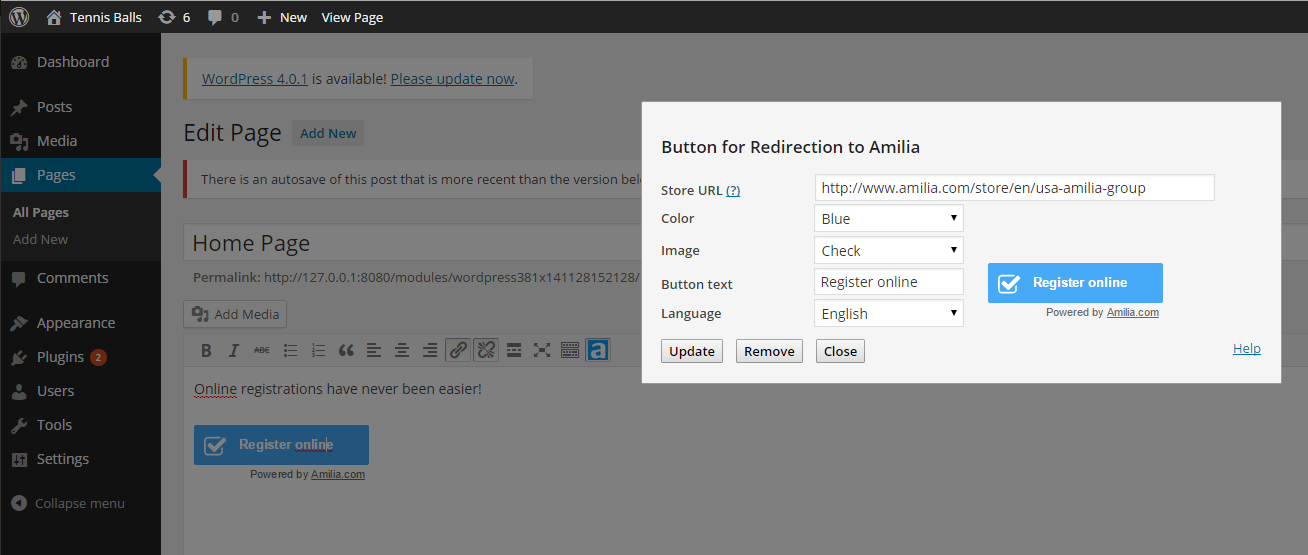
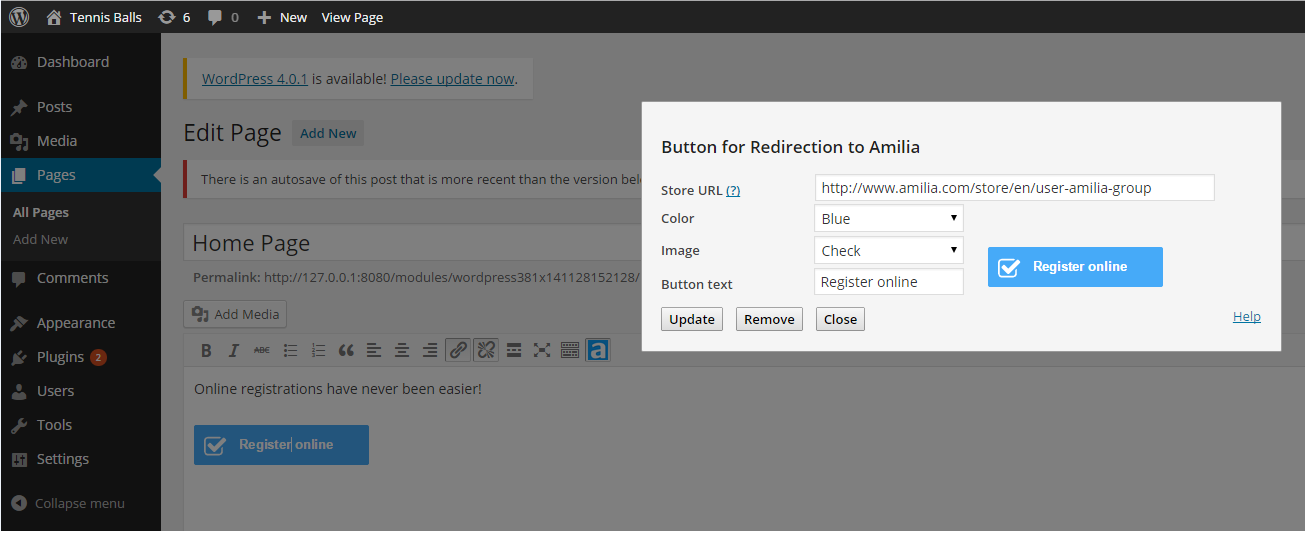
Removed powered-by. Not allowed by WP plugin rules. Removed hard-coded directory load. Detect color, image and text when editing a button.

diff --git a/amilia-button.js b/amilia-button.js
@@ -3,7 +3,8 @@
   var PLUGIN_NAME = "amilia_button",
       AMILIA_URL = "http://www.amilia.com",
       IMAGE_BASE_URL = "http://app.amilia.com/buttons",
-      COLORS = {g: '#40d892', dg: '#28b172', b: '#46aaf8', db: '#158ae5', o: '#fba16b', r: '#fb5b5b', y: '#fce162', steel: '#8294ab'};
+      COLORS = {g: '#40d892', dg: '#28b172', b: '#46aaf8', db: '#158ae5', o: '#fba16b', r: '#fb5b5b', y: '#fce162', steel: '#8294ab'},
+      IMAGES = ["check", "edit", "lock"];
 
   tinyMCE.addI18n("en.amilia_button", {
     "modal-title": "Button for Redirection to Amilia",
@@ -14,10 +15,8 @@
     "close": "Close",
     "text": "Button text",
     "text-value": "Register online",
-    "powered-text": "Powered by",
     "image": "Image",
     "color": "Color",
-    "language": "Language",
     "g": "Green",
     "dg": "Dark Green",
     "b": "Blue",
@@ -36,7 +35,7 @@
     "help": "Help",
     "instructions": "Instructions",
     "instructions-p1": "Navigate to the page of your store, or the registration page. Copie the URL from the address bar, and paste in the field URL.",
-    "instructions-p2": "Choose the color, the image, the text and language. Then insert the button on your page.",
+    "instructions-p2": "Choose the color, the image and the text. Then insert the button on your page.",
     "instructions-p3": "You can modify or remove it later, by positioning the cursor on the Amilia button. Click again on the Amilia tool icon."
   });
 
@@ -49,10 +48,8 @@
     "close": "Fermer",
     "text": "Texte du bouton",
     "text-value": "Inscription en ligne",
-    "powered-text": "Propulsé par",
     "image": "Image",
     "color": "Couleur",
-    "language": "Langue",
     "g": "Vert",
     "dg": "Vert foncé",
     "b": "Bleu",
@@ -71,7 +68,7 @@
     "help": "Aide",
     "instructions": "Instructions",
     "instructions-p1": "Naviguer vers la page de votre boutique ou vers la page d'inscription. Copier l'addresse (URL) de votre navigateur, et coller là dans le champs URL.",
-    "instructions-p2": "Choisir la couleur, l'image, le texte et la langue. Ensuite l'insérer dans votre page.",
+    "instructions-p2": "Choisir la couleur, l'image et le texte. Ensuite l'insérer dans votre page.",
     "instructions-p3": "Vous pourez le modifier ou l'effacer plus tard, en poisitionnant le curseur sur le bouton Amilia, et en cliquant sur l'outil Amilia."
   });
 
@@ -88,9 +85,9 @@
     '      <select name="color">',
     '        <option value="g">{g}</option>',
     '        <option value="dg">{dg}</option>',
-    '        <option value="b">{b}</option>',
+    '        <option selected="selected" value="b">{b}</option>',
     '        <option value="db">{db}</option>',
-    '        <option selected="selected" value="o">{o}</option>',
+    '        <option value="o">{o}</option>',
     '        <option value="r">{r}</option>',
     '        <option value="y">{y}</option>',
     '        <option value="steel">{steel}</option>',
@@ -107,13 +104,6 @@
     '    <div>',
     '      <label>{text}</label>',
     '      <input type="text" name="text" value="{text-value}" />',
-    '    </div>',
-    '    <div>',
-    '      <label>{language}</label>',
-    '      <select name="language">',
-    '        <option selected="selected" value="en">{english}</option>',
-    '        <option value="fr">{french}</option>',
-    '      </select>',
     '    </div>',
     '  </div>',
     '  <div class="amilia-right">',
@@ -143,10 +133,7 @@
           '{text}',
         '</span>',
       '</span>',
-    '</a>',
-    '<span style="display:block; text-align:right; padding:2px 4px 0 0; color:#696969; font:11px/15px arial;">',
-      '{poweredText} <a class="amilia-powered-by" href="{amiliaUrl}" target="_blank" style="color:#696969;">Amilia.com</a>',
-    '</span>'
+    '</a>'
   ].join('');
 
   function lang(key, lang) {
@@ -169,6 +156,28 @@
     return text.replace(/^\s\s*/, '').replace(/\s\s*$/, '').length > 0;
   };
 
+  function getColor(backgroundColor) {
+    backgroundColor || (backgroundColor = "");
+    var hexDigits = new Array ("0","1","2","3","4","5","6","7","8","9","a","b","c","d","e","f"); 
+    function hex(x) {
+      return isNaN(x) ? "00" : hexDigits[(x - x % 16) / 16] + hexDigits[x % 16];
+    }
+    function rgb2hex(rgb) {
+     rgb = rgb.match(/^rgb\((\d+),\s*(\d+),\s*(\d+)\)$/);
+     return "#" + hex(rgb[1]) + hex(rgb[2]) + hex(rgb[3]);
+    }
+    backgroundColor = rgb2hex(backgroundColor);
+    for (var key in COLORS)
+      if (COLORS.hasOwnProperty(key) && backgroundColor == COLORS[key]) return key;
+    return "b";
+  }
+
+  function getImage(backgroundImage) {
+    backgroundImage || (backgroundImage = "");
+    for (var i = 0; i < IMAGES.length; i++)
+      if (backgroundImage.indexOf(IMAGES[i]) != -1) return IMAGES[i];
+    return IMAGES[0];
+  }
 
   tinymce.PluginManager.add(PLUGIN_NAME, function(editor, url) {
     tinymce.DOM.loadCSS(url + "/amilia-button.css");
@@ -191,7 +200,6 @@
         color = modal.querySelector("select[name=color]"),
         image = modal.querySelector("select[name=image]"),
         text = modal.querySelector("input[name=text]"),
-        language = modal.querySelector("select[name=language]"),
         preview = modal.querySelector("#amilia-button-preview"),
         insertButton = modal.querySelector("button[name=insert]"),
         updateButton = modal.querySelector("button[name=update]"),
@@ -208,9 +216,7 @@
         .replace('{color}', COLORS[color.value] == 'y' ? '#494949' : '#ffffff')
         .replace('{backgroundColor}', COLORS[color.value])
         .replace('{imageUrl}', IMAGE_BASE_URL + "/" + image.value + ".png")
-        .replace('{text}', text.value)
-        .replace('{poweredText}', lang("powered-text", language.value))
-        .replace('{amiliaUrl}', AMILIA_URL + "/" + tinymce.activeEditor.settings.language);
+        .replace('{text}', text.value);
       if (!no_wrapper) html = '<div class="amilia-button-wrapper" style="width:175px;">' + html + '</div>';
       return html;
     }
@@ -236,7 +242,7 @@
       modal.style.display = "none";
     }
 
-    color.onchange = image.onchange =  text.onchange = language.onchange = updatePreview;
+    color.onchange = image.onchange =  text.onchange = updatePreview;
     insertButton.onclick = function(e) {
       if (!validate()) return;
       editor.execCommand("mceInsertRawHTML", false, generateRawHtml());
@@ -269,7 +275,13 @@
     function showModal() {
       activeElement = getActiveElement();
       if (activeElement) {
-        storeUrl.value = activeElement.querySelector("a.amilia-button").href;
+        var button = activeElement.querySelector("a.amilia-button");
+        if (button) {
+          storeUrl.value = button.href;
+          color.value = getColor(button.style.backgroundColor);
+          image.value = getImage(button.style.backgroundImage);
+          text.value = button.querySelector("span span").textContent;
+        }
         insertButton.style.display = "none";
         updateButton.style.display = "inline";
         deleteButton.style.display = "inline";

diff --git a/amilia-button.php b/amilia-button.php
@@ -21,7 +21,7 @@ function amilia_add_mce_button() {
 add_action('admin_head', 'amilia_add_mce_button');
 
 function amilia_add_tinymce_plugin($plugin_array) {
-    $plugin_array['amilia_button'] = plugins_url('amilia-button') . '/amilia-button.js';
+    $plugin_array['amilia_button'] = plugins_url('amilia-button.js', __FILE__);
     return $plugin_array;
 }
 
